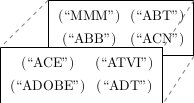
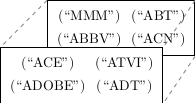
Fix some typos.

diff --git a/numpy/mat-01.tex b/numpy/mat-01.tex
@@ -16,7 +16,7 @@
 at(-1* \xs, -1 * \ys) %shift the matrix
 {
     \node {(``MMM'')}; \& \node {(``ABT'')};\\
-    \node {(``ABB'')}; \& \node {(``ACN'')};\\
+    \node {(``ABBV'')}; \& \node {(``ACN'')};\\
 };
 
 \matrix [draw, % for the rectangle border

diff --git a/numpy/mat-02.tex b/numpy/mat-02.tex
@@ -15,7 +15,7 @@
 (mm1)%give the matrix a name
 at(-1* \xs, -1 * \ys) %shift the matrix
 {
-    \node {(``MMM'')}; \& \node {(``ABB'')};\\
+    \node {(``MMM'')}; \& \node {(``ABBV'')};\\
     \node {(``ABT'')}; \& \node {(``ACN'')};\\
 };
 
